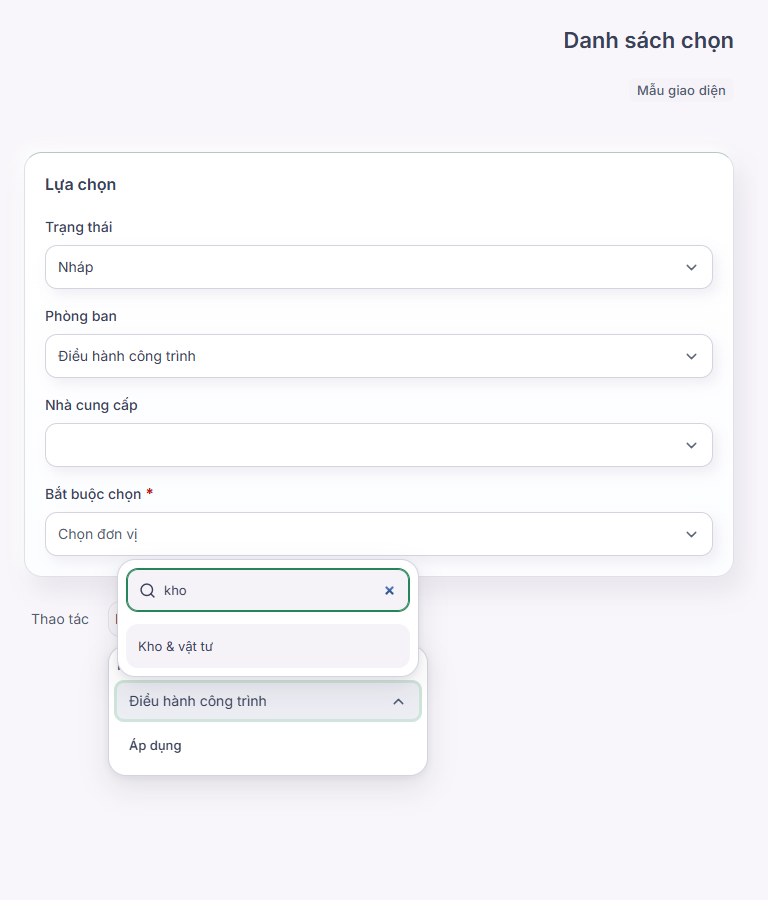
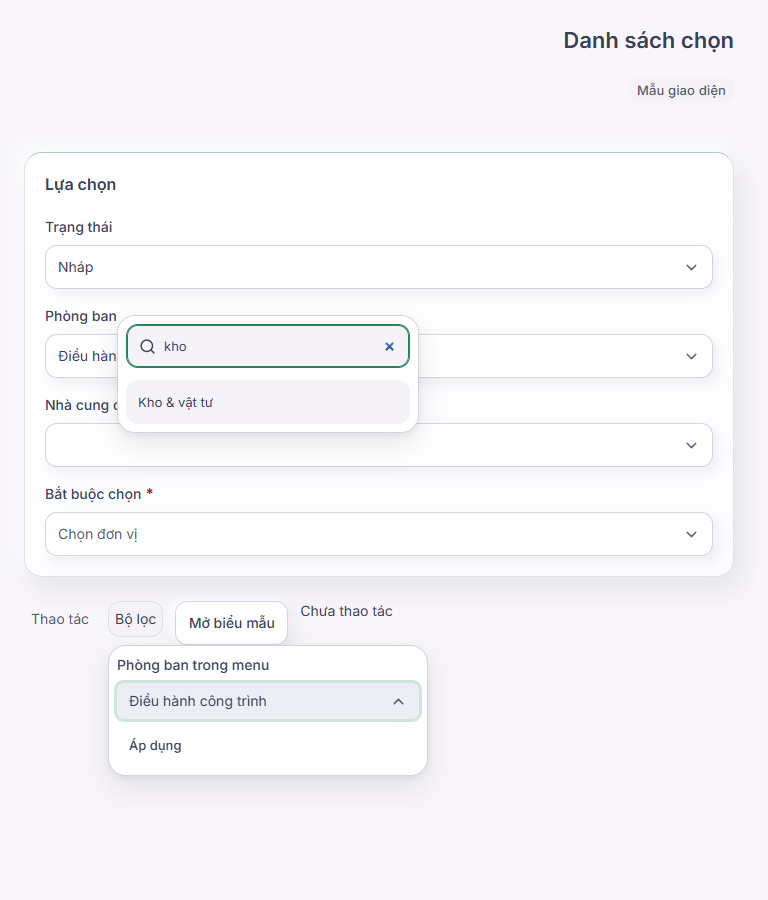
Keep period labels visible and align dropdown actions

Changed region(s): [[0.1562, 0.3422, 0.5625, 0.4978], [0.1562, 0.6222, 0.5312, 0.7778]]

diff --git a/src/styles/dropdowns.css b/src/styles/dropdowns.css
@@ -118,14 +118,14 @@
 .combobox-control .combobox-control__tools > button:hover:not(:disabled) { background: var(--surface-2); color: var(--text-primary); }
 .combobox-control .combobox-control__tools > button:focus-visible { outline: 2px solid var(--color-primary); outline-offset: 1px; box-shadow: none; }
 .combobox-control .combobox-control__tools > button:last-child svg { transition: transform var(--motion-fast, 140ms); }
-.combobox-control[data-open] .combobox-control .combobox-control__tools > button:last-child svg { transform: rotate(180deg); }
+.combobox-control[data-open] .combobox-control__tools > button:last-child svg { transform: rotate(180deg); }
 .combobox-control[data-open] > input { border-color: var(--color-primary); }
 .combobox-control__spinner { animation: dropdown-spin 900ms linear infinite; }
 .dropdown__trigger { display: inline-flex; min-width: var(--control-height-sm); min-height: var(--control-height-sm); align-items: center; justify-content: center; gap: var(--space-2); border: 1px solid transparent; border-radius: var(--radius-control); background: transparent; color: var(--text-secondary); cursor: pointer; }
 .dropdown__trigger:hover, .dropdown__trigger[aria-expanded="true"] { border-color: var(--border-subtle); background: var(--surface-2); color: var(--text-primary); }
 .floating-panel.dropdown__content { display: grid; gap: var(--space-1); padding: var(--space-2); }
 .floating-panel.dropdown__content > div { display: grid; gap: var(--space-1); }
-.floating-panel.dropdown__content [role="menuitem"] { display: flex; width: 100%; min-height: var(--control-height-md); align-items: center; gap: var(--space-3); border: 0; border-radius: var(--radius-control); padding: var(--space-3); background: transparent; color: var(--text-primary); font: inherit; font-size: var(--font-meta); font-weight: var(--font-weight-medium); line-height: 1.5; text-align: left; white-space: normal; overflow-wrap: anywhere; cursor: pointer; }
+.floating-panel.dropdown__content [role="menuitem"] { display: flex; width: 100%; min-height: var(--control-height-md); align-items: center; justify-content: flex-start; gap: var(--space-3); border: 0; border-radius: var(--radius-control); padding: var(--space-3); background: transparent; color: var(--text-primary); font: inherit; font-size: var(--font-meta); font-weight: var(--font-weight-medium); line-height: 1.5; text-align: left; white-space: normal; overflow-wrap: anywhere; cursor: pointer; }
 .floating-panel.dropdown__content :is(a, button) > svg { width: 17px; height: 17px; flex: 0 0 auto; color: var(--text-secondary); }
 .floating-panel.dropdown__content [role="menuitem"]:not(:disabled):hover { background: var(--color-primary-soft); color: var(--color-primary-active); }
 .floating-panel.dropdown__content [role="menuitem"]:focus-visible { outline: 2px solid var(--color-primary); outline-offset: -2px; box-shadow: none; }

diff --git a/src/features/business/Business.module.css b/src/features/business/Business.module.css
@@ -81,7 +81,8 @@
 .card[data-feature=quality]>span{background:var(--success-soft);color:var(--success)}
 .dashboardToolbar{display:flex;align-items:center;justify-content:space-between;gap:var(--space-4);flex-wrap:wrap}
 .dashboardToolbar h2{font-size:var(--font-section);margin:0}
-.dashboardToolbar>div{display:flex;align-items:end;gap:var(--space-3);flex-wrap:nowrap}
+.dashboardToolbar>div{display:flex;align-items:end;gap:var(--space-3);flex-wrap:wrap}
+.dashboardToolbar :global(.field){width:11.5rem;max-width:100%;flex:0 0 auto}
 .dashboardToolbar label{display:grid;gap:var(--space-2);width:auto;flex:0 0 auto;font-size:var(--font-meta);color:var(--text-secondary)}
 .dashboardToolbar select{min-height:44px;border:1px solid var(--border-default);border-radius:var(--radius-control);background:var(--surface);color:var(--text-primary);padding:var(--space-2) var(--space-3);font:inherit}
 .dashboardLoading{min-height:240px;display:grid;place-items:center;background:var(--surface);border:1px solid var(--border-default);border-radius:var(--radius-card);color:var(--text-secondary)}

diff --git a/docs/commercial-erp/dropdown-polish.md b/docs/commercial-erp/dropdown-polish.md
@@ -9,6 +9,7 @@
 - Danh sách cuộn trong khung; vị trí tự chọn phía trên/dưới và bám viewport. Dropdown lồng trong menu giữ menu cha khi chọn; Escape đóng lớp trên cùng trước.
 - Giữ FormData, kiểm tra trường bắt buộc, reset form và sự kiện select/input hiện có. Placeholder bị vô hiệu hóa không được trình bày như một giá trị hợp lệ.
 - Bộ chọn kỳ trên tổng quan ERP và bốn ô chọn trong đăng ký dùng thử sử dụng component chung. Loại bỏ popup select mặc định của trình duyệt tại các vị trí này.
+- Kỳ theo dõi hiển thị đủ tháng/năm; icon và nhãn trong menu thao tác thẳng hàng. Mũi tên ô tham chiếu phản ánh trạng thái mở.
 - Preview phát triển ở `/ui-preview/dropdowns`; production trả 404.
 
 Styles được tập trung tại `src/styles/dropdowns.css`; token bóng tại `src/styles/tokens.css`. Phần styles cũ tương ứng đã được chuyển khỏi `enterprise.css`.
